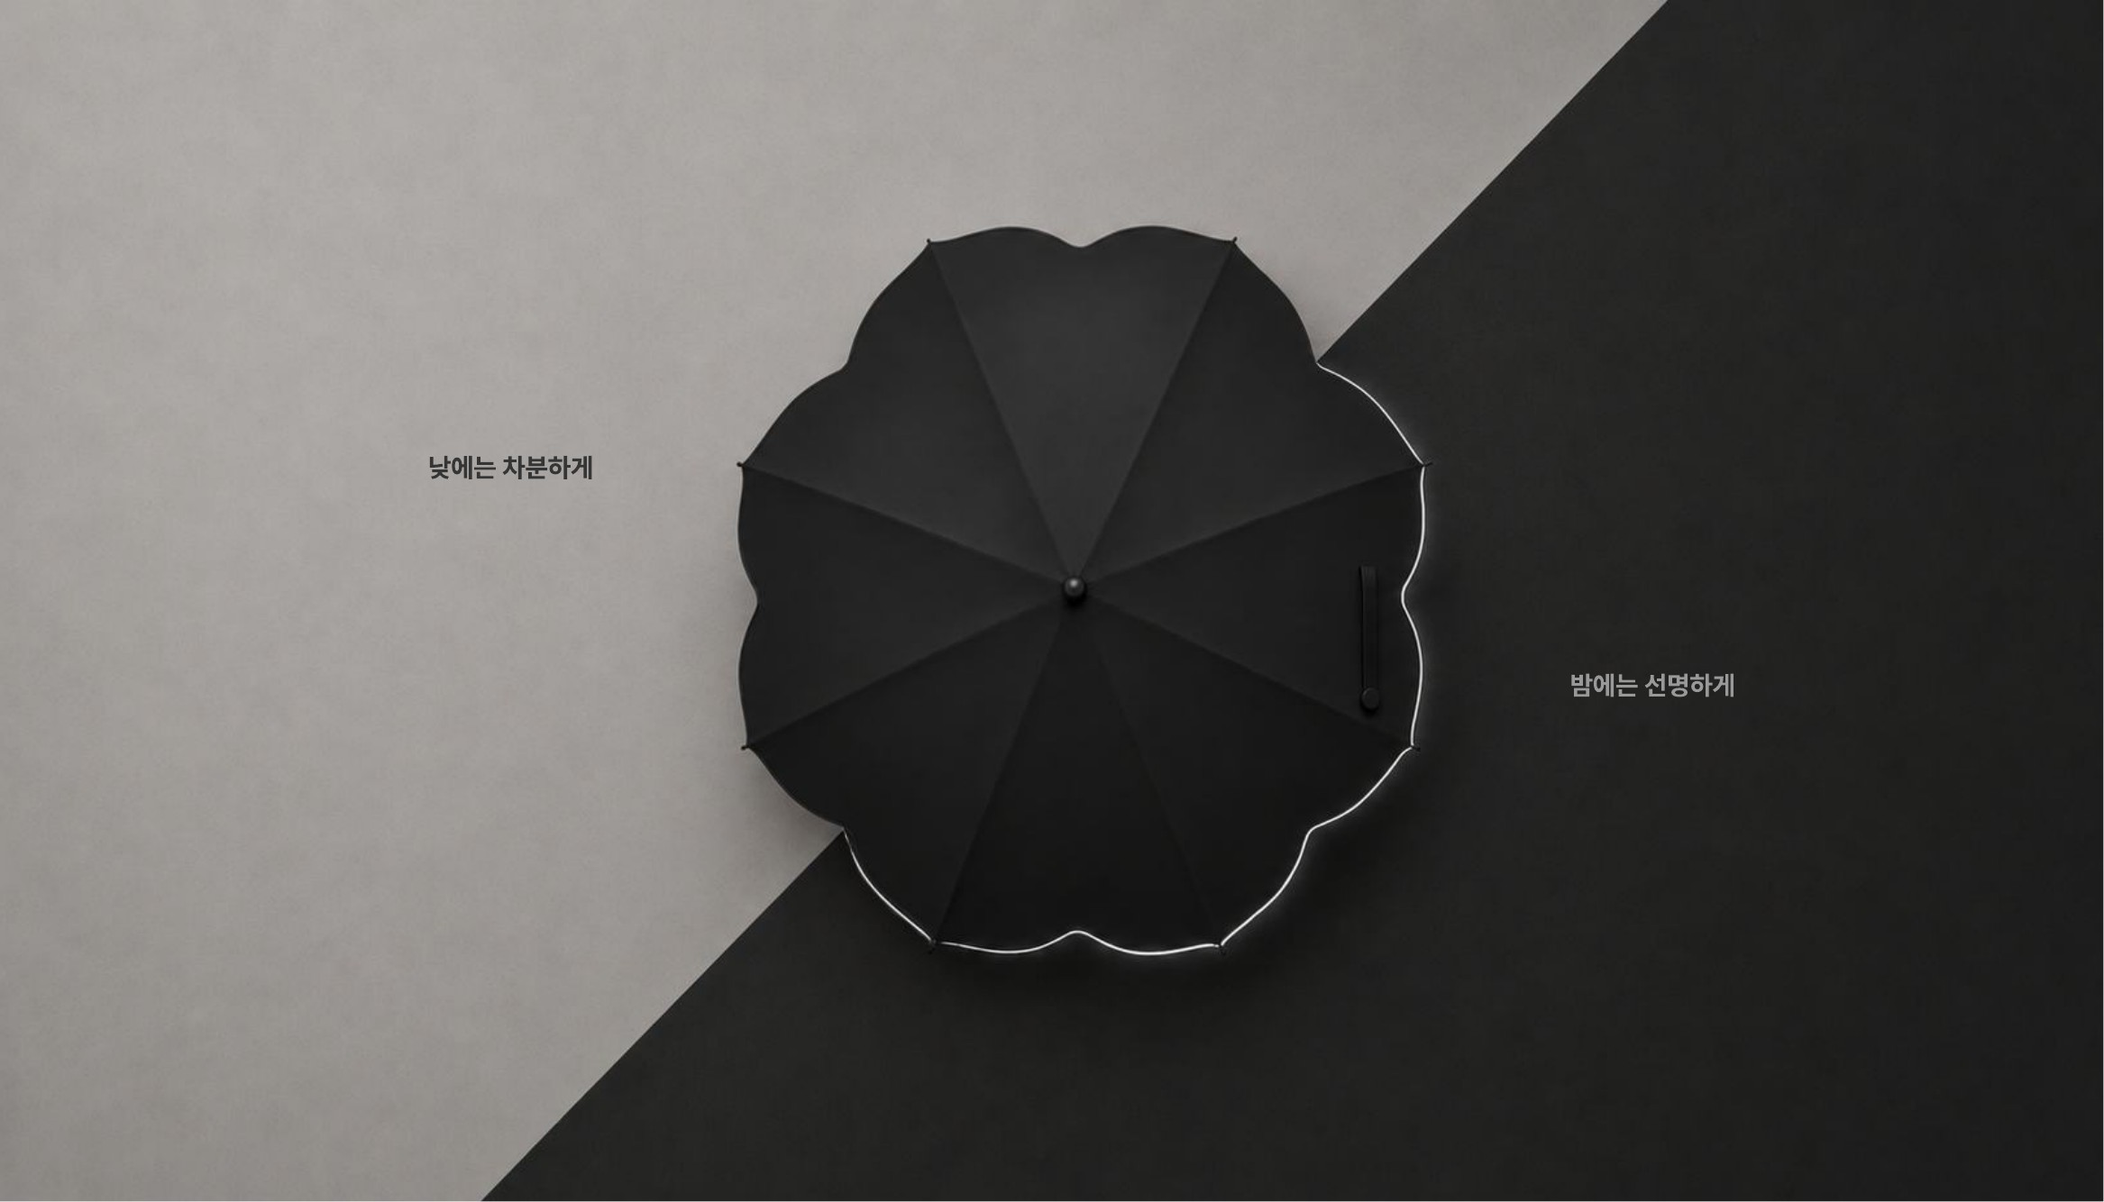
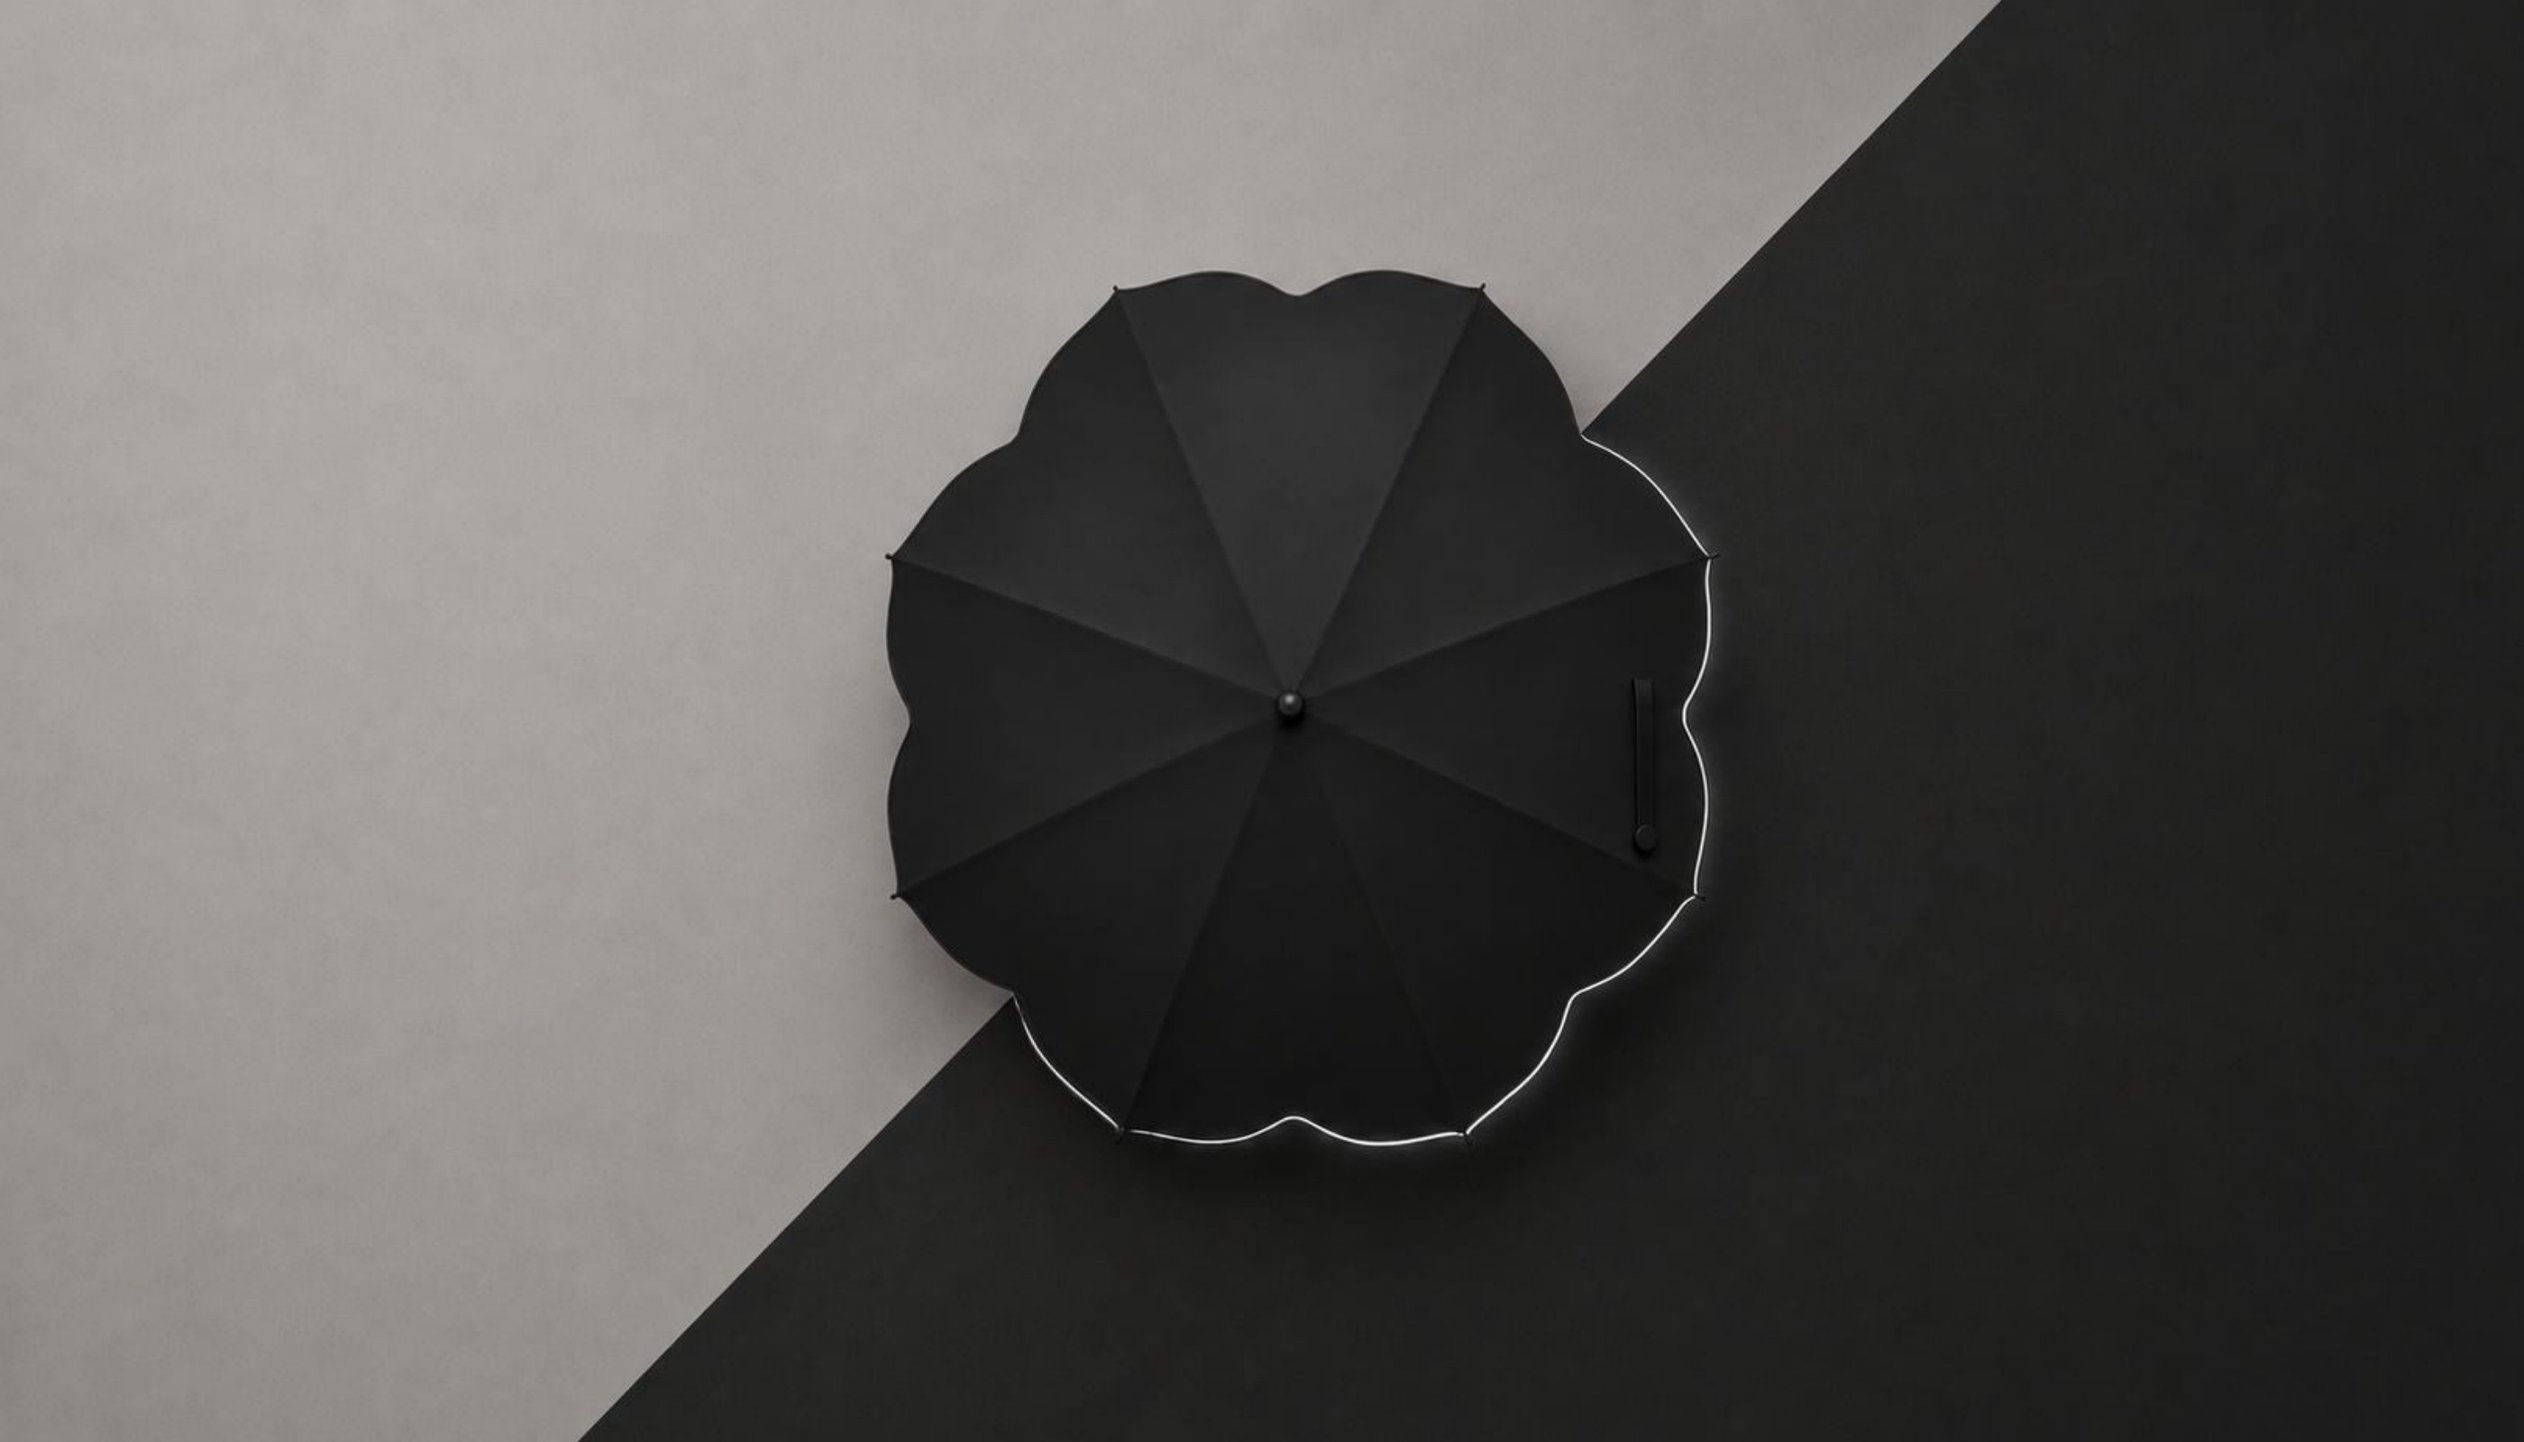
Add files via upload

Changed region(s): [[0.7404, 0.5532, 0.8329, 0.584], [0.1851, 0.3688, 0.2776, 0.3996], [0.5861, 0.7376, 0.617, 0.7684]]

diff --git a/ohi.html b/ohi.html
@@ -124,6 +124,17 @@
   .detail-figure .frame{position:relative;overflow:hidden;border-radius:10px;}
   .detail-figure .cap + .frame{margin-top:14px;}
   .detail-figure img{width:100%;display:block;background:var(--bg-soft);transform:scale(1.03);transform-origin:center;}
+
+  .canopy-label{
+    position:absolute;top:50%;transform:translateY(-50%);
+    font-size:15px;font-weight:600;letter-spacing:-.01em;
+    opacity:0;transition:opacity .8s ease, transform .8s ease;
+    z-index:2;
+  }
+  .label-day{left:6%;color:#2b2b28;transform:translateY(-50%) translateX(-12px);}
+  .label-night{right:6%;color:#f2f2ef;transform:translateY(-50%) translateX(12px);}
+  .canopy-motion.in-view .label-day{opacity:1;transform:translateY(-50%) translateX(0);transition-delay:.2s;}
+  .canopy-motion.in-view .label-night{opacity:1;transform:translateY(-50%) translateX(0);transition-delay:1.1s;}
   .detail-figure .cap{
     margin:0;font-size:16px;line-height:1.6;color:var(--text);white-space:nowrap;
   }
@@ -334,8 +345,10 @@
 </div>
 
 <div class="detail-figure">
-  <div class="frame">
+  <div class="frame canopy-motion" id="canopyMotion">
     <img src="ohi-canopy-design.jpg" alt="오하이 캐노피 디자인 - 낮에는 차분하게, 밤에는 선명하게">
+    <span class="canopy-label label-day">낮에는 차분하게</span>
+    <span class="canopy-label label-night">밤에는 선명하게</span>
   </div>
 </div>
 
@@ -354,6 +367,20 @@
 </div>
 
 <script>
+  (function(){
+    const el = document.getElementById('canopyMotion');
+    if(!el) return;
+    const io = new IntersectionObserver((entries)=>{
+      entries.forEach(entry=>{
+        if(entry.isIntersecting){
+          el.classList.add('in-view');
+          io.unobserve(el);
+        }
+      });
+    }, {threshold:0.4});
+    io.observe(el);
+  })();
+
   function updateClock(){
     const now = new Date();
     const seoul = new Intl.DateTimeFormat('en-GB', {
